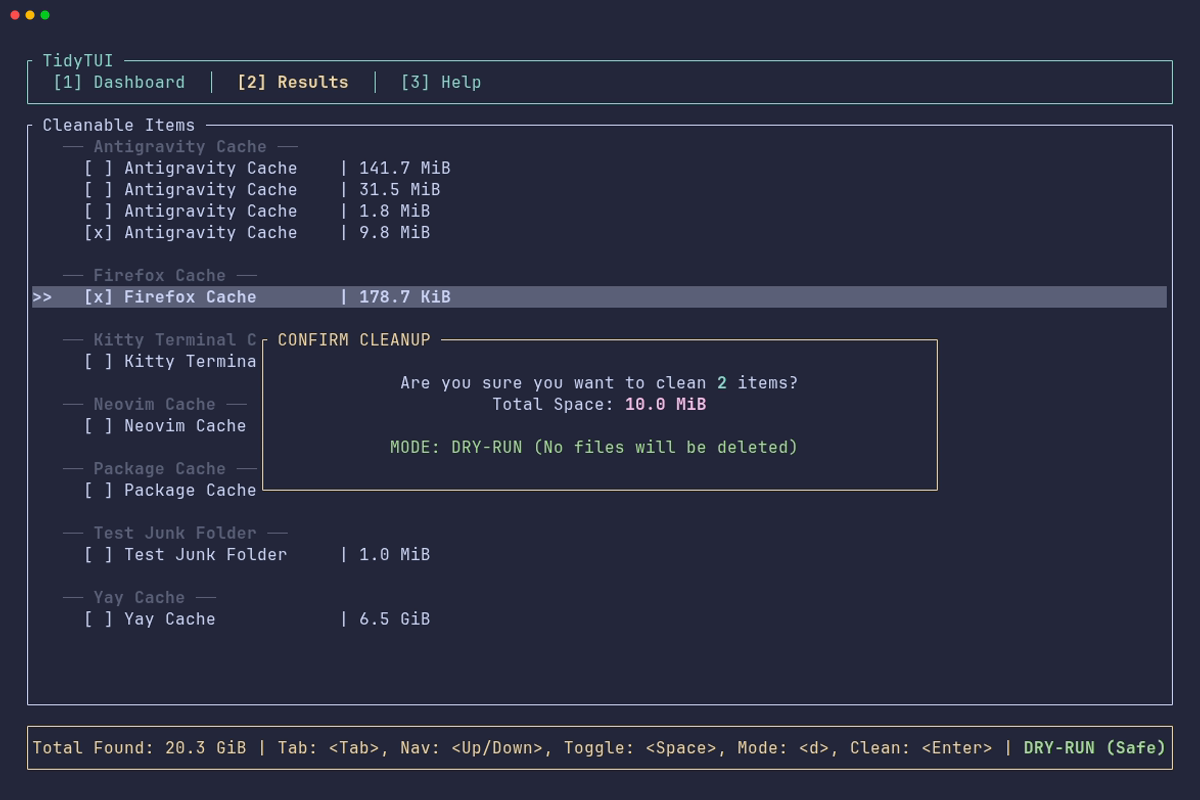
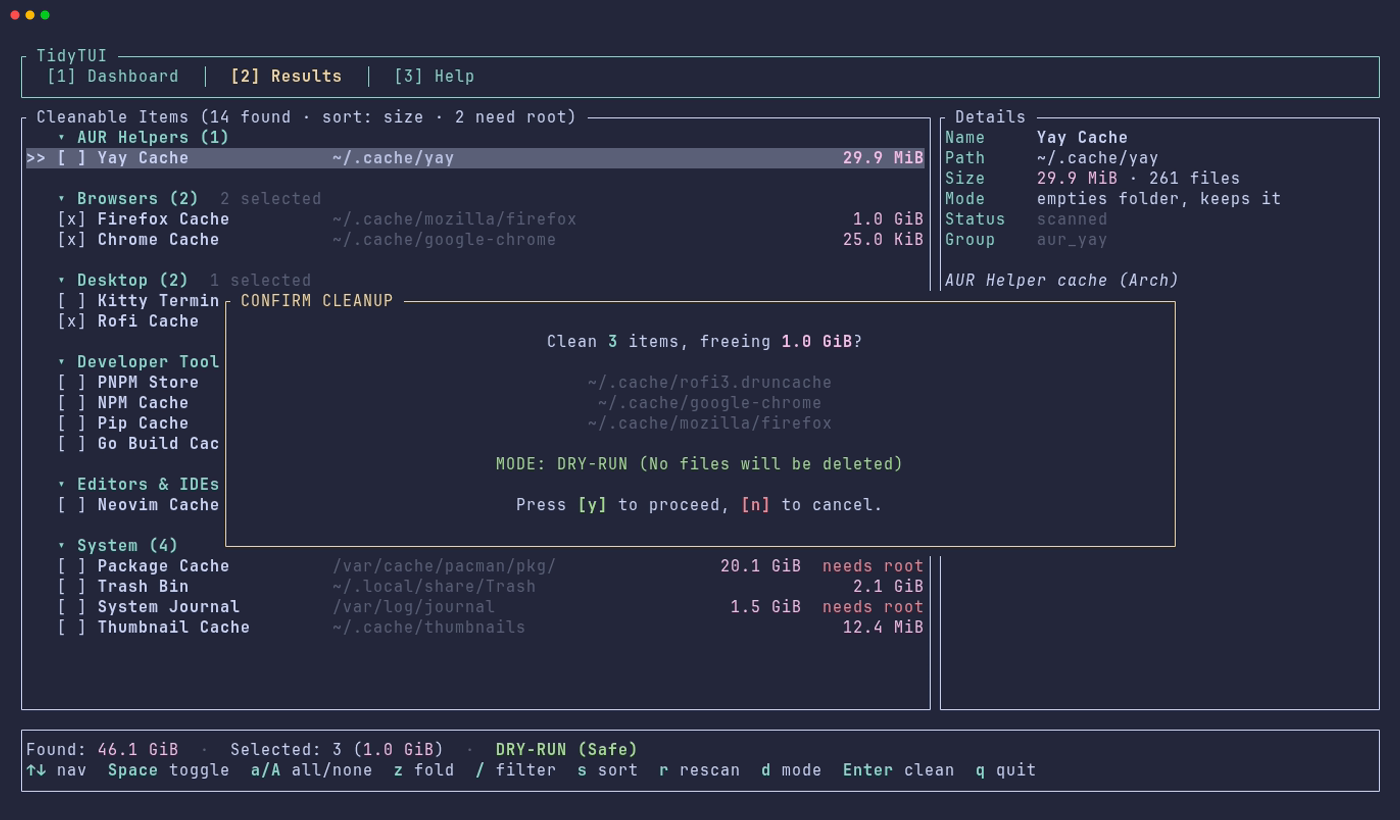
docs: regenerate showcase gif and screenshots for the new UI
The tape now drives the release binary with the repo definitions via a
PATH wrapper, walks the dashboard, results, fold/select, filter, sort,
dry-run confirm/summary and theme cycling, and stays in dry-run mode
throughout. README gets a screenshot gallery and a note on regenerating.

diff --git a/README.md b/README.md
@@ -11,6 +11,14 @@ TidyTUI is a lightweight, ncurses-style utility to scan your Linux system for ac
 
 ![Demo](assets/showcase/demo.gif)
 
+| Dashboard | Results |
+|:---:|:---:|
+| ![Dashboard](assets/showcase/dashboard.png) | ![Results](assets/showcase/results.png) |
+| **Confirm (dry-run)** | **Gruvbox theme** |
+| ![Confirm](assets/showcase/confirm.png) | ![Gruvbox theme](assets/showcase/theme-gruvbox.png) |
+
+Everything above runs in the default dry-run mode — the tape never deletes a file.
+
 ## 🚀 Features
 
 - **⚡ Blazingly Fast**: Powered by `rayon` for multi-threaded scanning and `walkdir` for efficient traversal. The interface opens instantly and fills in as the scan streams results.
@@ -211,6 +219,15 @@ to clean them.
 ## 🤝 Contributing
 
 Contributions are welcome! Please open an issue or submit a PR.
+
+```bash
+cargo test
+cargo clippy --all-targets -- -D warnings
+cargo fmt --check
+```
+
+The showcase GIF and screenshots are generated with [VHS](https://github.com/charmbracelet/vhs)
+from `assets/vhs/demo.tape`; see the comments at the top of the tape.
 
 ## 📜 License
 
